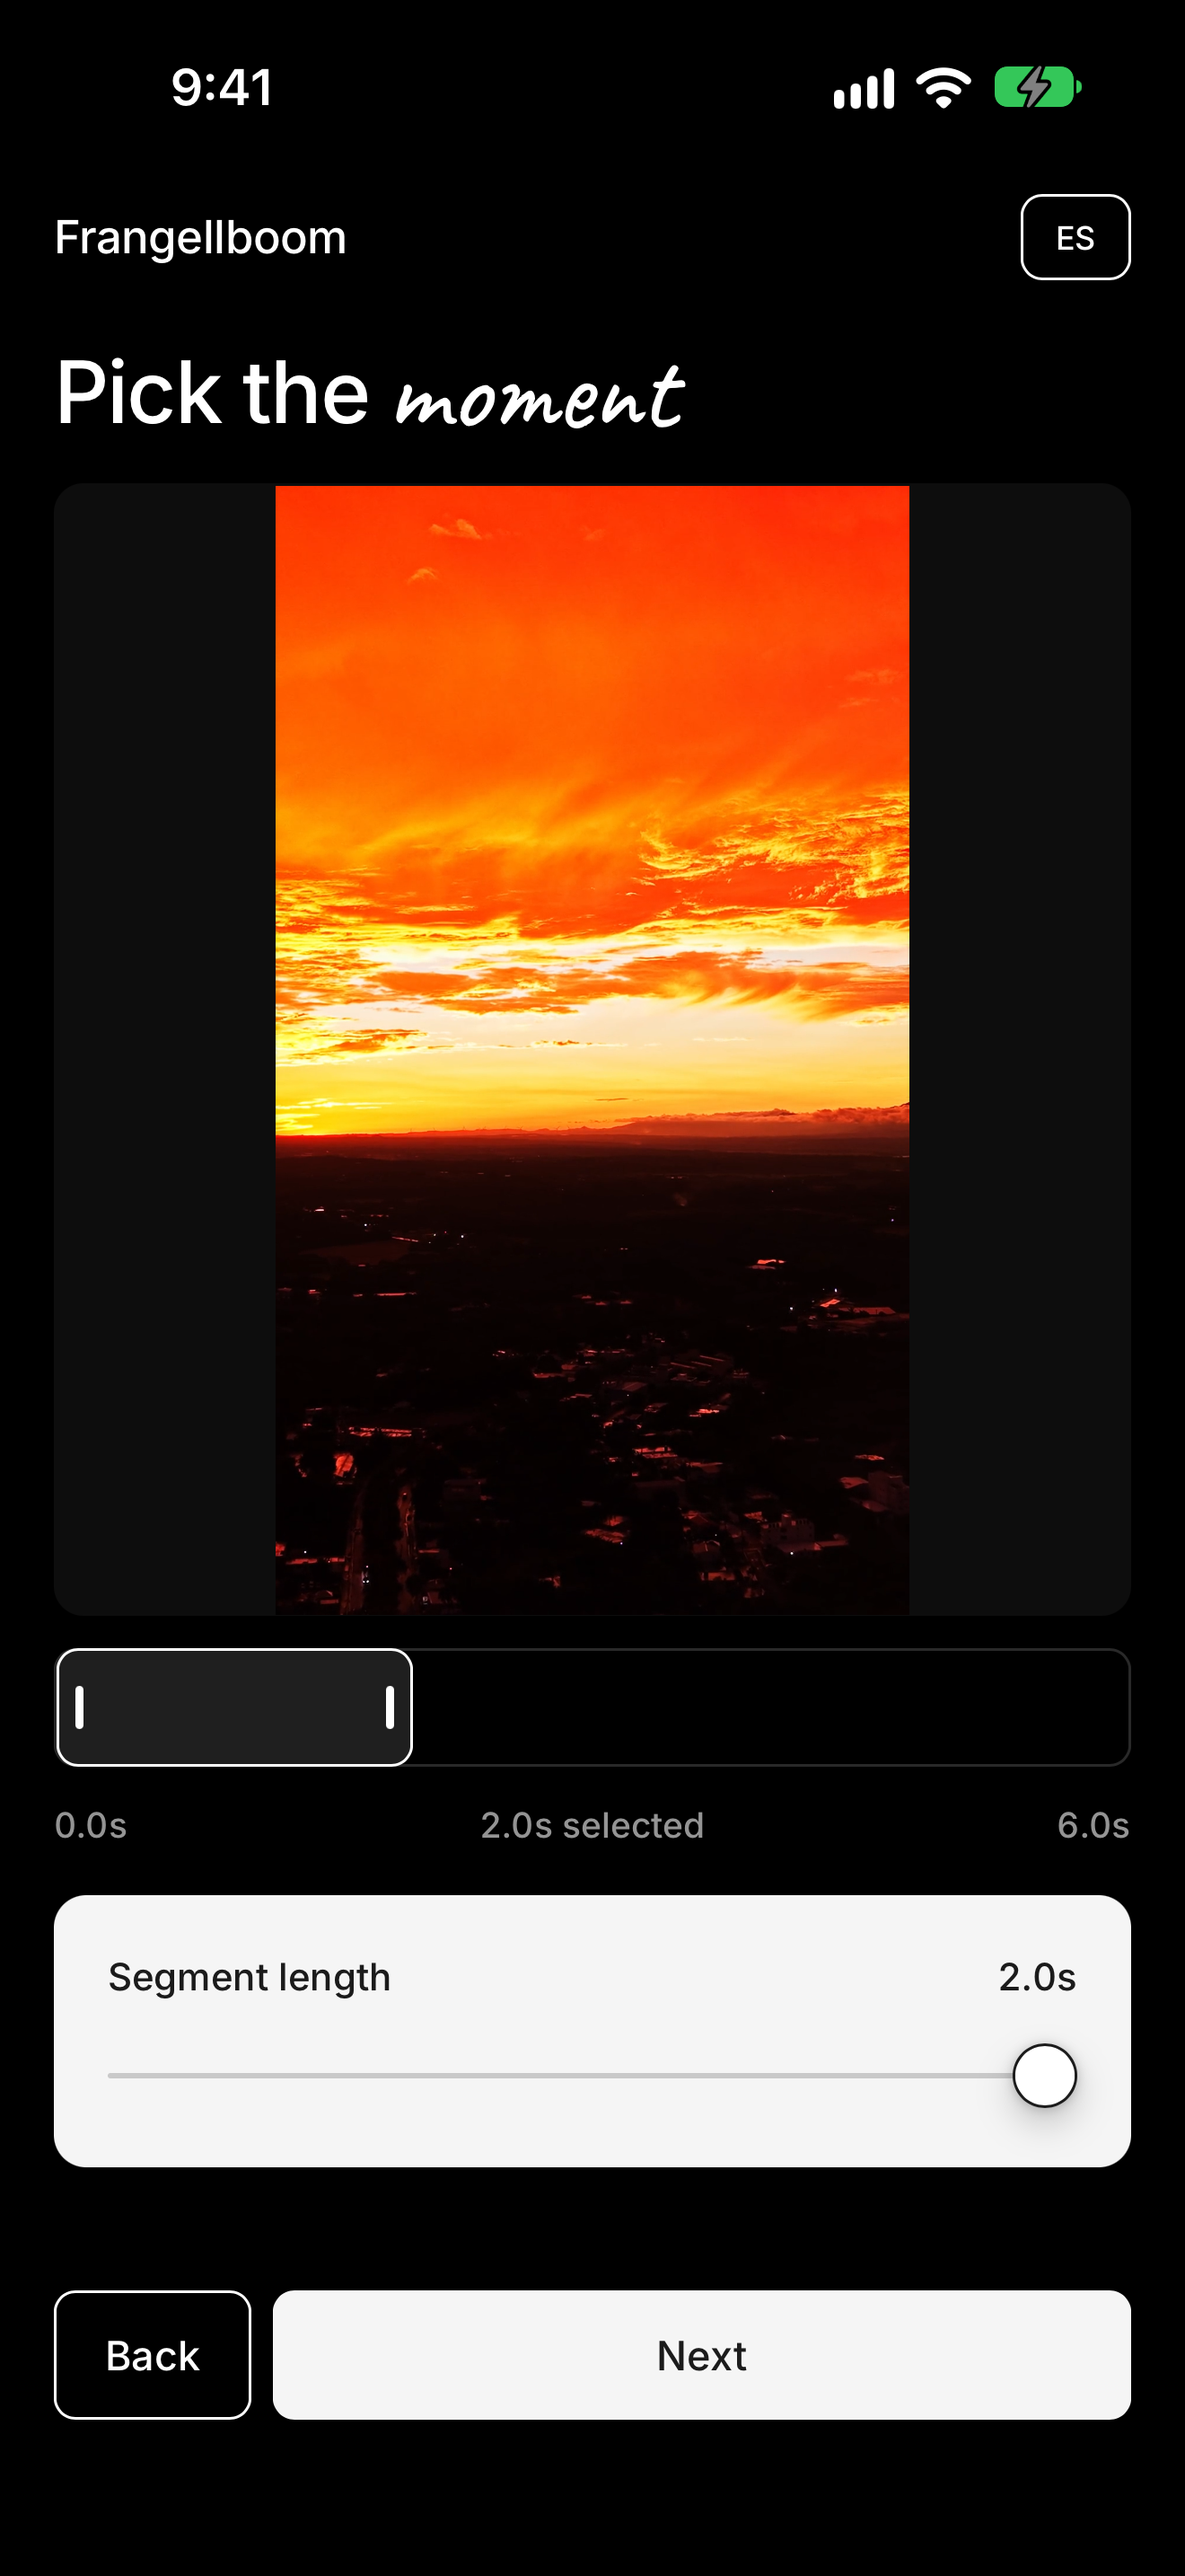
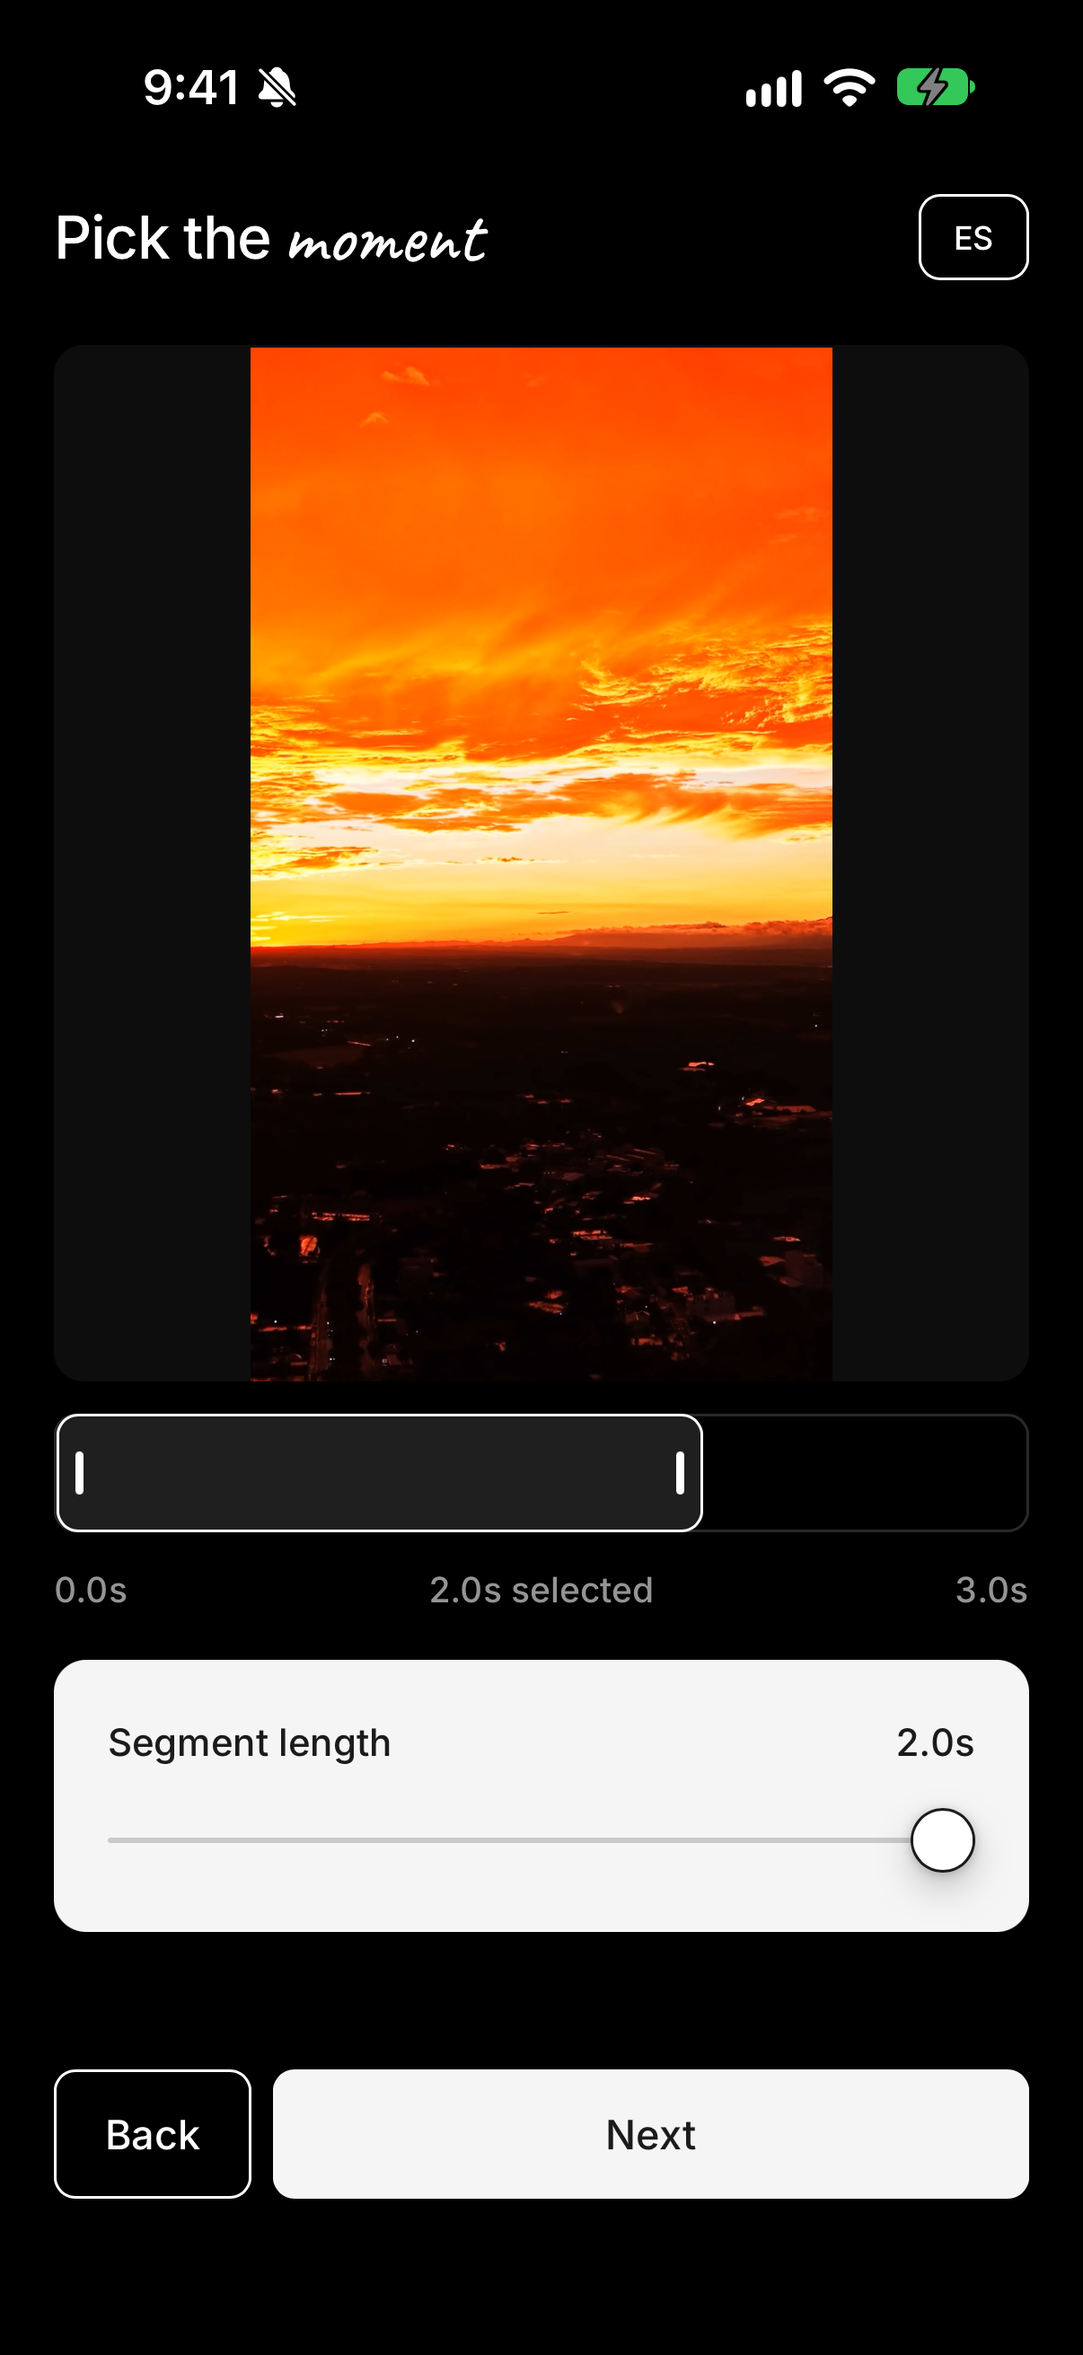
Store listing: new screenshots (modes, looks, Pro sheet at $4.99) and descriptions for the Pro features

diff --git a/docs/APP_STORE.md b/docs/APP_STORE.md
@@ -6,7 +6,7 @@ Esta guía va desde "tengo la cuenta de Apple Developer" hasta "la app está en 
 - **Bundle ID:** `com.frangellcode.frangellboom`
 - **Team:** Frangell Vasquez (9S78N8546T)
 - **Frangellboom Pro (IAP no consumible):** `com.frangellcode.frangellboom.pro` → $4.99
-  - Desbloquea los modos Ease, Freeze, Pulse y Zoom, las calidades 4K y "Original" (la resolución del video tal cual, incluso más allá de 4K). 1080p y 2K son gratis, sin marca de agua. Lo demás es gratis.
+  - Desbloquea los modos Ease, Freeze, Pulse, Zoom, Ramp, Bounce, Echo y Mirror, los 11 estilos de cine, la cámara Pro (120 fps, temporizador, lentes), convertir Live Photos en bucle y las calidades 4K y "Original". El modo Clásico, 1080p y 2K son gratis y nunca llevan marca de agua.
 - **Política de privacidad:** https://frangellcode.github.io/frangellboom/privacy.html
 - **Soporte:** https://frangellcode.github.io/frangellboom/support.html
 
@@ -74,7 +74,7 @@ Antes: **Business → Agreements** → acepta el **Paid Apps Agreement** (con ba
 | Non-Consumable | Frangellboom Pro | `com.frangellcode.frangellboom.pro` | $4.99 |
 
 - **Availability:** todos los países. **Price Schedule:** $4.99.
-- **Localization:** EN *Frangellboom Pro* / "Every mode and film look, the Pro camera, Live Photos and 4K. Yours forever." · ES *Frangellboom Pro* / "Todos los modos y estilos, cámara Pro, Live Photos y 4K. Para siempre."
+- **Localization (máx. 55 caracteres):** EN *Frangellboom Pro* / "Every mode and film look, Pro camera, Live Photos, 4K." · ES *Frangellboom Pro* / "Todos los modos y estilos, cámara Pro, Live Photos, 4K."
 - **Review Screenshot:** una captura de la ventana "Frangellboom Pro" con el precio.
 - **Review Notes:** `Non-consumable. Unlocks the Ease, Freeze, Pulse and Zoom modes, the Ramp, Bounce, Echo and Mirror modes, 11 film looks, the Pro camera (120 fps slow motion, timer, ultra wide and telephoto lenses), turning Live Photos into loops and the 4K and Original export qualities. Restore purchases is in the same sheet.`
 
@@ -93,38 +93,46 @@ Antes: **Business → Agreements** → acepta el **Paid Apps Agreement** (con ba
 
 ## 7. Ficha de la tienda
 
-**Capturas (obligatorio):** ya están hechas en tamaño iPhone 6.9" (1320 × 2868), sin transparencia, con el mismo estilo que las de PolarGrid (título arriba y la app en un teléfono): `docs/screenshots/app-store/English/` para English (U.S.) y `docs/screenshots/app-store/Español/` para Spanish. En App Store Connect, dentro de cada idioma, arrástralas en orden (1 → 5) a **iPhone 6.9" Display**. Usan un video generado para la app, sin contenido ni marcas de terceros. Las capturas sin marco están en `docs/screenshots/en|es/`; si cambias textos o capturas, regenera con `npm run store-screenshots` (`scripts/frame-screenshots.mjs`).
+**Capturas (obligatorio):** ya están hechas en tamaño iPhone 6.9" (1320 × 2868), sin transparencia, con el mismo estilo que las de PolarGrid (título arriba y la app en un teléfono): `docs/screenshots/app-store/English/` para English (U.S.) y `docs/screenshots/app-store/Español/` para Spanish (inicio, recorte, modos, estilos, resultado). En App Store Connect, dentro de cada idioma, arrástralas en orden (1 → 5) a **iPhone 6.9" Display**. Usan un video generado para la app, sin contenido ni marcas de terceros. Las capturas sin marco están en `docs/screenshots/en|es/`; si cambias textos o capturas, regenera con `npm run store-screenshots` (`scripts/frame-screenshots.mjs`).
 
 **Subtitle (máx. 30):** EN `Back-and-forth video loops` · ES `Bucles de video ida y vuelta`
 
-**Promotional text:** EN `Turn any clip into a back-and-forth loop in full quality — 4K, 60 fps and HDR. Everything stays on your iPhone.` · ES `Convierte cualquier clip en un bucle de ida y vuelta en calidad máxima — 4K, 60 fps y HDR. Todo se queda en tu iPhone.`
+**Promotional text:** EN `New: nine loop modes, 11 film looks, a 120 fps Pro camera and Live Photos. Full quality, up to 4K, all on your iPhone.` · ES `Nuevo: nueve modos de bucle, 11 estilos de cine, cámara Pro a 120 fps y Live Photos. Calidad máxima, hasta 4K, todo en tu iPhone.`
 
 **Description (EN):**
 ```
-Frangellboom turns a moment from any video into a smooth back-and-forth loop — in the full quality your iPhone recorded it in.
+Frangellboom turns a moment from any video into a smooth back-and-forth loop, in the full quality your iPhone recorded it in.
 
 PICK THE MOMENT
-• Choose any video from your library
+• Choose a video from your library, or record one right in the app
 • Slide to the exact segment you want, up to 2 seconds
 • See the loop live before you create it
 
-FIVE WAYS TO LOOP
-• Classic — forward and back, at normal speed or in smooth slow motion
-• Ease — slows at the edges, speeds through the middle
-• Freeze — holds on each end
-• Pulse — a quick stutter before it rewinds
-• Zoom — punches in on the way back
+NINE WAYS TO LOOP
+• Classic: forward and back, at normal speed or in smooth slow motion
+• Ease, Freeze, Pulse and Zoom
+• Ramp: speeds up, then slows down
+• Bounce: springs off each end
+• Echo: a trail that follows the motion
+• Mirror: a reflection down the middle
+
+FILM LOOKS
+• 11 styles with their own color, grain and vignette, from warm portrait film to punchy black and white
+• Set how strong each one is, and watch it live on your loop
 
 FULL QUALITY
-• Keeps your video's resolution, frame rate and HDR — up to 4K at 60 fps
+• Keeps your video's resolution, frame rate and HDR, up to 4K
 • Built on your iPhone's own video hardware: fast, even for 4K
-• Slow motion stays smooth: the missing in-between frames are created on device
-• Or pick a size: 4K, 2K or 1080p
+• Free exports in 1080p and 2K, never with a watermark
+
+PRO CAMERA AND LIVE PHOTOS
+• Record in 120 fps slow motion, with a 3 or 10 second timer and the ultra wide and telephoto lenses
+• Turn any Live Photo into a loop
 
 PRIVATE BY DESIGN
 Every video is processed on your iPhone. No account, no uploads, no tracking. Works with no internet connection.
 
-Free to use. Frangellboom Pro, a one-time purchase with no subscription, unlocks the Ease, Freeze, Pulse and Zoom modes, and 4K and original quality.
+Free to use. Frangellboom Pro, a one-time purchase with no subscription, unlocks the eight extra modes, the 11 film looks, the Pro camera, Live Photos and 4K and original quality.
 ```
 
 **Description (ES):**
@@ -132,27 +140,35 @@ Free to use. Frangellboom Pro, a one-time purchase with no subscription, unlocks
 Frangellboom convierte un momento de cualquier video en un bucle de ida y vuelta, en la misma calidad con la que lo grabó tu iPhone.
 
 ELIGE EL MOMENTO
-• Escoge cualquier video de tu fototeca
+• Escoge un video de tu fototeca o grábalo desde la app
 • Desliza hasta el tramo exacto que quieres, de hasta 2 segundos
 • Mira el bucle en vivo antes de crearlo
 
-CINCO FORMAS DE BUCLE
-• Clásico — ida y vuelta, a velocidad normal o en cámara lenta fluida
-• Suave — frena en los extremos y acelera en el medio
-• Pausa — se detiene en cada extremo
-• Pulso — un pequeño tirón antes de volver
-• Zoom — se acerca en la vuelta
+NUEVE FORMAS DE BUCLE
+• Clásico: ida y vuelta, a velocidad normal o en cámara lenta fluida
+• Suave, Pausa, Pulso y Zoom
+• Rampa: acelera y luego frena
+• Rebote: rebota en cada extremo
+• Eco: una estela que sigue el movimiento
+• Espejo: un reflejo justo por el medio
+
+ESTILOS DE CINE
+• 11 estilos con su propio color, grano y viñeta, desde película cálida de retrato hasta blanco y negro intenso
+• Ajusta la intensidad de cada uno y míralo en vivo en tu bucle
 
 CALIDAD MÁXIMA
-• Mantiene la resolución, los fps y el HDR de tu video — hasta 4K a 60 fps
+• Mantiene la resolución, los fps y el HDR de tu video, hasta 4K
 • Usa el hardware de video de tu iPhone: rápido, incluso en 4K
-• Cámara lenta fluida: los cuadros intermedios se crean en el dispositivo
-• O elige un tamaño: 4K, 2K o 1080p
+• Exporta gratis en 1080p y 2K, nunca con marca de agua
+
+CÁMARA PRO Y LIVE PHOTOS
+• Graba en cámara lenta a 120 fps, con temporizador de 3 o 10 segundos y los lentes gran angular y teleobjetivo
+• Convierte cualquier Live Photo en un bucle
 
 PRIVADA POR DISEÑO
 Cada video se procesa en tu iPhone. Sin cuenta, sin subidas, sin rastreo. Funciona sin internet.
 
-Gratis. Frangellboom Pro, un solo pago y sin suscripción, desbloquea los modos Ease, Freeze, Pulse y Zoom, y la calidad 4K y original.
+Gratis. Frangellboom Pro, un solo pago y sin suscripción, desbloquea los ocho modos extra, los 11 estilos de cine, la cámara Pro, las Live Photos y la calidad 4K y original.
 ```
 
 **Keywords (máx. 100, sin espacios después de las comas):**
@@ -176,11 +192,11 @@ ES `bucle,video en bucle,ida y vuelta,reversa,rebobinar,cámara lenta,rebote,hdr
 2. **In-App Purchases → "+"** → Frangellboom Pro (la primera vez **tiene que ir con la app**).
 3. **App Review Information** → Sign-in required: **No** → **Notes:**
    ```
-   Frangellboom turns a short segment of a video into a back-and-forth loop. All video processing happens on-device with AVFoundation; the app has no backend, no accounts and collects no data.
+   Frangellboom turns a short segment of a video into a back-and-forth loop. All video processing happens on-device with AVFoundation; the app has no backend, no accounts and collects no data. A screen recording of the app on an iPhone is attached.
 
-   To test: tap "Import your video", pick any video, choose a segment, tap Next, then "Create loop". Tap "Save or share" → "Save Video" to save it to Photos.
+   To test: tap "Choose a video", pick any video, choose a segment, tap Next, then "Create loop". Tap "Save or share" → "Save Video" to save it to Photos. "Record a moment" opens the app's own camera.
 
-   Frangellboom Pro is a non-consumable in-app purchase. "Go Pro" at the bottom of the home screen, or tapping any option with a lock (the Ease, Freeze, Pulse and Zoom modes; Original and 4K quality), opens the Pro sheet with the price, Buy and Restore purchases. Exports never carry a watermark, with or without Pro.
+   Frangellboom Pro is a non-consumable in-app purchase. "Go Pro" at the bottom of the home screen, or tapping anything with a lock (the Ease, Freeze, Pulse, Zoom, Ramp, Bounce, Echo and Mirror modes; the film looks; Original and 4K quality; "Live Photo → loop"; "Slow motion" and the camera's 120 fps, timer and lens buttons), opens the Pro sheet with the price, Buy and Restore purchases. Exports never carry a watermark, with or without Pro.
    ```
 4. **Add for Review → Submit for Review.** Suele tardar 24–48 h. Si hay rechazo, responde en el **Resolution Center**.
 
